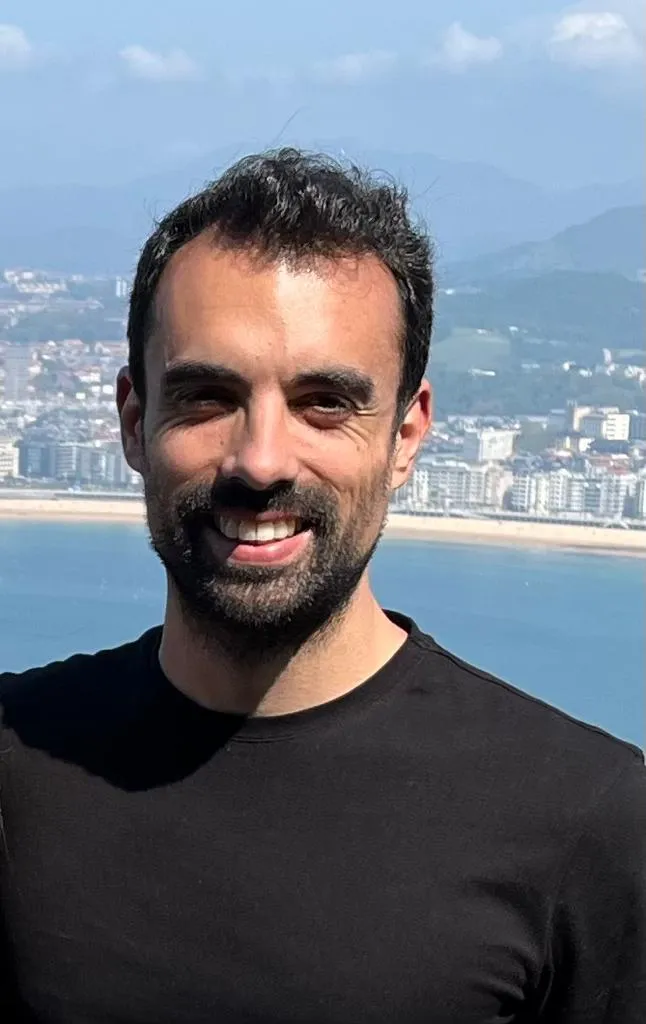
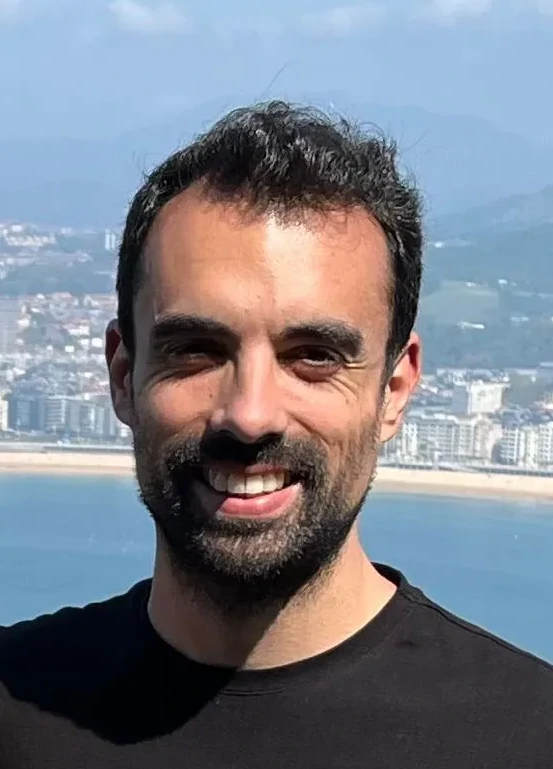
update projects styling

diff --git a/src/data/projects.js b/src/data/projects.js
@@ -1,22 +1,40 @@
 const projectsData = [
   {
-    img: 'portfolio23.webp',
+    img: 'sveltePortfolio.webp',
     title: 'Portfolio 2023',
     tag: 'Personal Project',
     description: [
-      'New version of my personnal portoflio, the main objective was to learn Next JS and Tailwind.',
+      'New version of my personnal portoflio, the main objective was to learn Svelte JS, which is very fast and simple for small projects.',
       'Solo project.',
     ],
     url: 'https://raphaelpg.github.io/nextjs-portfolio-2023/',
-    repo: 'https://github.com/raphaelpg/nextjs-portfolio-2023',
+    repo: 'https://github.com/raphaelpg/svelte-portfolio-2023',
     stack: [
-      'nextjs',
-      'tailwind',
-      'react',
-      'trypescript',
-      'copilot',
+      'svelte',
+      'vite',
+      'javascript',
+      'html',
+      'css'
     ],
   },
+  // {
+  //   img: 'portfolio23.webp',
+  //   title: 'Portfolio 2023',
+  //   tag: 'Personal Project',
+  //   description: [
+  //     'New version of my personnal portoflio, the main objective was to learn Next JS and Tailwind.',
+  //     'Solo project.',
+  //   ],
+  //   url: 'https://raphaelpg.github.io/nextjs-portfolio-2023/',
+  //   repo: 'https://github.com/raphaelpg/nextjs-portfolio-2023',
+  //   stack: [
+  //     'nextjs',
+  //     'tailwind',
+  //     'react',
+  //     'typescript',
+  //     'copilot',
+  //   ],
+  // },
   {
     img: 'uniswap.svg',
     title: 'EVM scripts: transaction parser',
@@ -184,7 +202,6 @@ const projectsData = [
     description: [
       'Front end of the production version of Irrigate, the platform to gather all NGO\'s and associations accross the world allowing users to send donations from anywhere to everywhere using DAI currency.',
       'The client is a static website made with Gatsby and deployed on IPFS through Fleek, desktop only for the moment.',
-      'It is currently work-in-progress.',
       'Solo project.',
     ],
     url: 'https://irrigateapp.xyz/',
@@ -205,7 +222,6 @@ const projectsData = [
     description: [
       'Back end of the production version of Irrigate, the platform to gather all NGO\'s and associations accross the world allowing users to send donations from anywhere to everywhere using DAI currency.',
       'The server is hosted on Ionos 1&1 and serves data as a REST API from a MongoDb Atlas database.',
-      'Current status is work in progress.',
       'Solo project.',
     ],
     url: 'https://www.future-space.org/api/causes',

diff --git a/src/components/ProjectItem.svelte b/src/components/ProjectItem.svelte
@@ -1,5 +1,6 @@
 <script>
   import ProjectStack from "./ProjectStack.svelte";
+  import ProjectTag from "./ProjectTag.svelte";
 
   export let img;
   export let title;
@@ -7,15 +8,21 @@
   export let url;
   export let repo;
   export let stack;
+  export let tag;
 </script>
 
 <projectItem>
   <img src={img} alt={title} {title} />
   <projectItemRight>
     <h2>{title}</h2>
-    <p>{description}</p>
+
+    {#each description as phrase}
+      <p>{phrase}</p>
+    {/each}
+    
     <h4>Stack:</h4>
     <ProjectStack {stack} />
+    
     {#if url && url.length > 1}
       <a href={url} target="_blank">View &#10148;</a>
     {/if}
@@ -23,6 +30,7 @@
       <a href={repo} target="_blank">Github &#10148;</a>
     {/if}
   </projectItemRight>
+  <ProjectTag {tag} />
 </projectItem>
 
 <style>
@@ -60,13 +68,17 @@
   }
 
   p {
-    margin-bottom: 0;
+    margin: 0;
   }
 
   a {
     text-decoration: none;
-    color: inherit;
+    color: var(--theme-secondary-color);
     font-weight: 600;
+  }
+  
+  a:hover {
+    color: var(--theme-special-color);
   }
 </style>
 

diff --git a/src/About.svelte b/src/About.svelte
@@ -10,6 +10,8 @@
     <p>
       I embarked on a journey to learn web development initially creating websites for friends as a freelancer. 
       As my skills evolved, I seized the opportunity to explore the exciting world of blockchain technology by attending a specialized course and participating in web3 hackathons, collaborating with talented individuals from diverse backgrounds.
+    </p>
+    <p>
       Today, I continue to pursue my passion for web development and I believe in delivering high-quality solutions, prioritizing the user experience above all.
       As a team player, I thrive in collaborative environments and prioritize building trust among my peers.
     </p>
@@ -18,3 +20,14 @@
     </p>
   </aboutText>
 </about>
+
+<style>
+  about {
+    padding: 6em 0;
+  }
+
+  img {
+    -webkit-filter: grayscale(100%); /* Safari 6.0 - 9.0 */
+    filter: grayscale(100%);
+  }
+</style>

diff --git a/src/components/ProjectTag.svelte b/src/components/ProjectTag.svelte
@@ -1,0 +1,30 @@
+<script>
+  export let tag;
+
+  const backgroundColors = {
+    "Personal Project": {color: "--theme-tag-blue"},
+    "Professional Project": {color: "--theme-tag-green"},
+    "Hackathon Project": {color: "--theme-tag-yellow"}
+  }
+
+  let tagColor = `var(${backgroundColors[tag]?.color})` ?? 'white'
+</script>
+
+<p style="background-color: {tagColor}">{tag}</p>
+
+<style>
+  p {
+    position: absolute;
+    right: 13%;
+    rotate: 45deg;
+    transform: translateY(-20px) translateX(10px);
+    width: 90px;
+    text-align: center;
+    color: white;
+    border-radius: 5px;
+    padding: 1px 5px;
+    font-size: small;
+    font-weight: 600;
+    letter-spacing: 1px;
+  }
+</style>

diff --git a/style.css b/style.css
@@ -3,6 +3,10 @@
 html {
   --theme-primary-color: #333;
   --theme-secondary-color: #4b6cb7;
+  --theme-special-color: rgb(236 72 153);
+  --theme-tag-yellow: rgb(234 179 8);
+  --theme-tag-blue: rgb(37 99 235);
+  --theme-tag-green: rgb(22 163 74);
 }
 
 body {

diff --git a/src/Projects.svelte b/src/Projects.svelte
@@ -14,6 +14,7 @@
       stack={project?.stack}
       url={project?.url}
       repo={project?.repo}
+      tag={project?.tag}
     />
   {/each}
 </projectsContainer>
